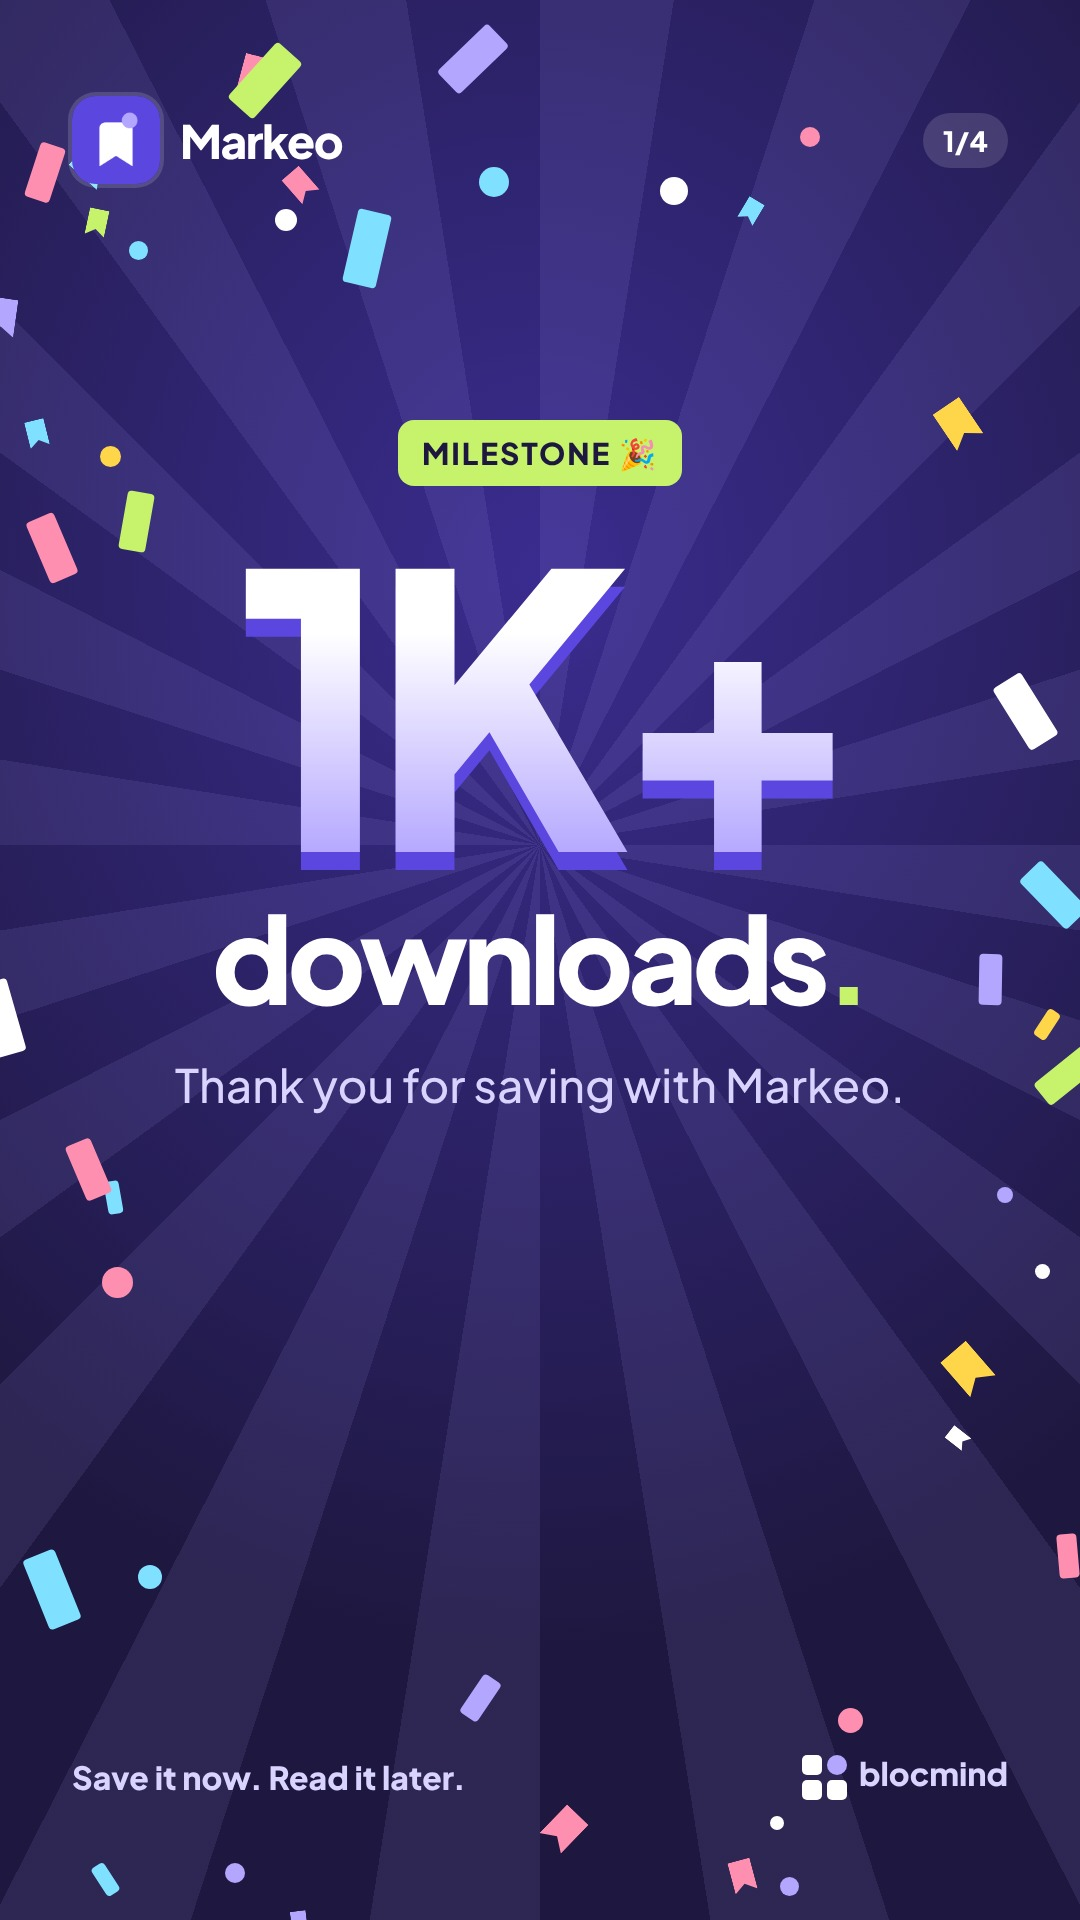
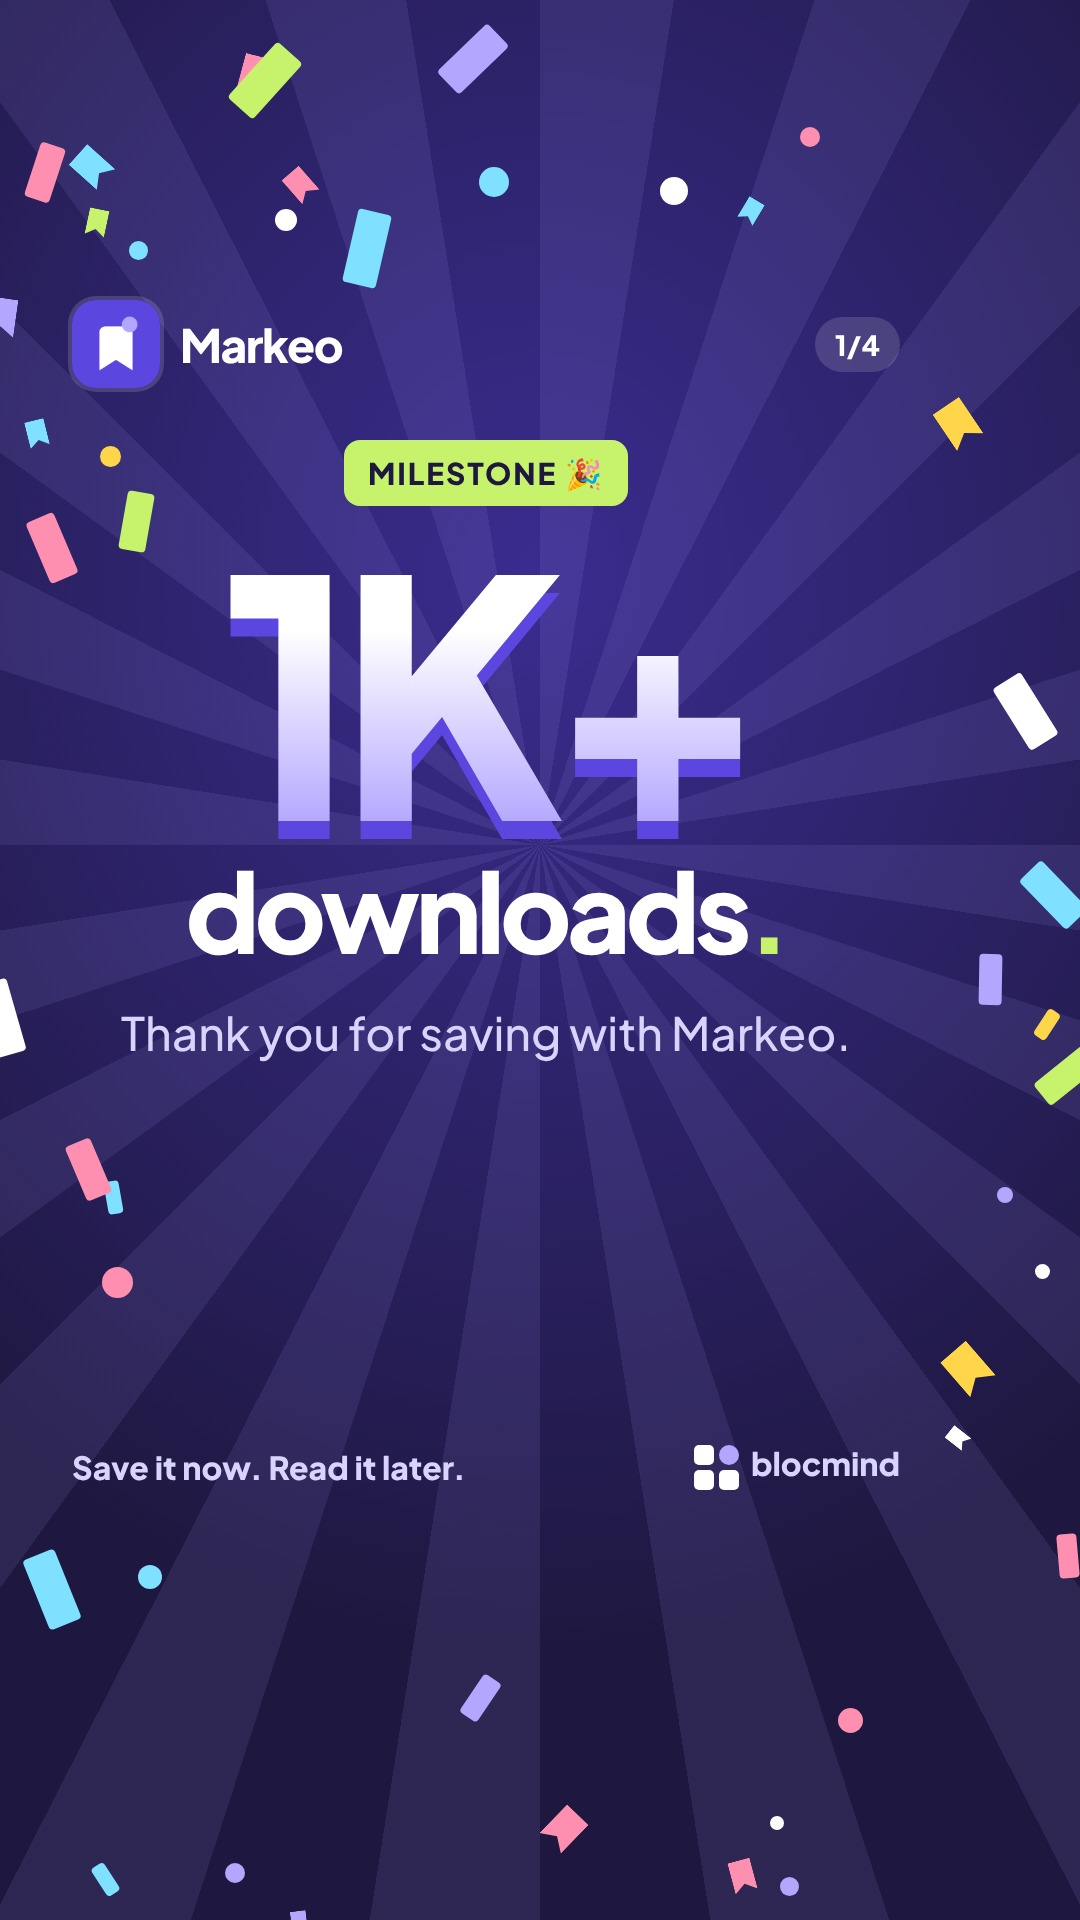
TikTok safe area: renderer padding, playbook rule; Markeo slides re-laid out
Claude-Session: https://claude.ai/code/session_01UYZzVSrbZ6Ze3qHLBoyudE

diff --git a/posts/2026-11-17-markeo/markeo.py b/posts/2026-11-17-markeo/markeo.py
@@ -28,22 +28,22 @@ CSS = f"""
 .s{{position:relative;overflow:hidden;width:1080px;height:1920px;color:#fff;background:radial-gradient(120% 80% at 50% 30%,#3A2C8F 0%,{DEEP} 70%)}}
 .conf{{position:absolute;inset:0;z-index:1}}.conf i{{position:absolute;display:block}}
 .ray{{position:absolute;left:50%;top:44%;width:2800px;height:2800px;margin:-1400px 0 0 -1400px;background:repeating-conic-gradient(rgba(179,166,255,.10) 0 9deg,transparent 9deg 18deg)}}
-.top{{position:absolute;left:72px;right:72px;top:96px;display:flex;align-items:center;gap:20px;z-index:6}}
+.top{{position:absolute;left:72px;right:180px;top:300px;display:flex;align-items:center;gap:20px;z-index:6}}
 .top img{{width:88px;height:88px;border-radius:24px;box-shadow:0 0 0 4px rgba(255,255,255,.15)}}
 .top b{{font-size:46px;font-weight:800;letter-spacing:-1.5px}}
 .n{{margin-left:auto;padding:10px 20px;border-radius:999px;background:rgba(255,255,255,.14);font-weight:800;font-size:28px}}
-.c{{position:absolute;left:72px;right:72px;z-index:5}}
+.c{{position:absolute;left:72px;right:180px;z-index:5}}
 .tag{{display:inline-block;padding:14px 24px;border-radius:16px;background:{LIME};color:{DEEP};font-size:30px;font-weight:800;letter-spacing:2px;text-transform:uppercase}}
 h1{{font-weight:800;letter-spacing:-.045em;line-height:.95}}
 .big{{font-size:380px;font-weight:800;letter-spacing:-.06em;line-height:.85;background:linear-gradient(180deg,#fff 30%,{LILAC});-webkit-background-clip:text;color:transparent;filter:drop-shadow(0 18px 0 {V})}}
 p{{font-size:46px;font-weight:500;line-height:1.35;color:#D9D3FF}}
-.store{{display:flex;align-items:center;gap:22px;padding:26px 34px;border-radius:30px;background:#fff;color:{DEEP};box-shadow:12px 12px 0 {V}}}
+.store{{display:flex;align-items:center;gap:22px;padding:20px 30px;border-radius:30px;background:#fff;color:{DEEP};box-shadow:12px 12px 0 {V}}}
 .store .ic{{width:76px;height:76px;border-radius:20px;display:grid;place-items:center;font-size:44px;background:{DEEP};color:#fff}}
 .store small{{display:block;font-size:26px;font-weight:700;color:#6B6496}}
 .store b{{font-size:48px;font-weight:800;letter-spacing:-1.5px}}
-.feat{{display:flex;align-items:center;gap:24px;padding:26px 30px;border-radius:30px;background:rgba(255,255,255,.08);border:2px solid rgba(255,255,255,.14);font-size:40px;font-weight:700}}
+.feat{{display:flex;align-items:center;gap:22px;padding:22px 26px;border-radius:30px;background:rgba(255,255,255,.08);border:2px solid rgba(255,255,255,.14);font-size:36px;font-weight:700}}
 .feat span{{width:72px;height:72px;flex:none;border-radius:20px;display:grid;place-items:center;font-size:38px;background:{V}}}
-.foot{{position:absolute;left:72px;right:72px;bottom:120px;display:flex;justify-content:space-between;align-items:center;font-size:32px;font-weight:800;z-index:3;color:#D9D3FF}}
+.foot{{position:absolute;left:72px;right:180px;bottom:430px;display:flex;justify-content:space-between;align-items:center;font-size:32px;font-weight:800;z-index:3;color:#D9D3FF}}
 .mark{{display:inline-grid;grid-template-columns:repeat(2,20px);gap:5px;vertical-align:middle;margin-right:12px}}
 .mark i{{display:block;width:20px;height:20px;border-radius:5px;background:#fff}}.mark i.m{{border-radius:50%;background:{LILAC}}}
 """
@@ -56,28 +56,28 @@ STORES = f'''<div style="display:flex;flex-direction:column;gap:26px">
 
 TT = [
 f'''<div class="s"><div class="ray"></div>{confetti(90)}{top('1/4')}
-<div class="c" style="top:420px;text-align:center"><span class="tag">Milestone 🎉</span>
-<div class="big" style="margin-top:50px">1K+</div>
-<h1 style="font-size:120px;margin-top:40px">downloads<span style="color:{LIME}">.</span></h1>
+<div class="c" style="top:440px;text-align:center"><span class="tag">Milestone 🎉</span>
+<div class="big" style="margin-top:40px;font-size:330px">1K+</div>
+<h1 style="font-size:110px;margin-top:30px">downloads<span style="color:{LIME}">.</span></h1>
 <p style="margin-top:40px">Thank you for saving with Markeo.</p></div>{FOOT}</div>''',
 f'''<div class="s">{confetti(30)}{top('2/4')}
-<div class="c" style="top:280px"><h1 style="font-size:118px">Why 1,000+ people keep their links here<span style="color:{LIME}">.</span></h1>
-<div style="display:flex;flex-direction:column;gap:22px;margin-top:70px">
+<div class="c" style="top:420px"><h1 style="font-size:92px">Why 1,000+ people keep their links here<span style="color:{LIME}">.</span></h1>
+<div style="display:flex;flex-direction:column;gap:18px;margin-top:44px">
 <div class="feat"><span>↗</span>Save from any app in one tap</div>
 <div class="feat"><span>⏰</span>Read-later reminders that actually remind</div>
 <div class="feat"><span>🗂</span>Folders and smart collections</div>
 <div class="feat"><span>🔒</span>No account. Links stay on your phone</div>
 </div></div>{FOOT}</div>''',
 f'''<div class="s"><div class="ray"></div>{confetti(60)}{top('3/4')}
-<div class="c" style="top:320px"><span class="tag">New</span>
-<h1 style="font-size:150px;margin-top:40px">Now on iPhone too<span style="color:{LIME}">.</span></h1>
-<p style="margin-top:40px;max-width:880px">Markeo is live on the App Store. Same calm app, now on both platforms.</p></div>
-<div class="c" style="top:1180px">{STORES}</div>{FOOT}</div>''',
+<div class="c" style="top:420px"><span class="tag">New</span>
+<h1 style="font-size:128px;margin-top:30px">Now on iPhone too<span style="color:{LIME}">.</span></h1>
+<p style="margin-top:30px;font-size:40px">Markeo is live on the App Store. Same calm app, now on both platforms.</p></div>
+<div class="c" style="top:1130px">{STORES}</div>{FOOT}</div>''',
 f'''<div class="s"><div class="ray"></div>{confetti(70)}{top('4/4')}
-<div class="c" style="top:360px;text-align:center"><img src="{ICON}" style="width:240px;height:240px;border-radius:60px;box-shadow:0 0 0 10px rgba(255,255,255,.12),20px 20px 0 {V}">
-<h1 style="font-size:128px;margin-top:70px">Get Markeo<span style="color:{LIME}">.</span></h1>
+<div class="c" style="top:430px;text-align:center"><img src="{ICON}" style="width:200px;height:200px;border-radius:60px;box-shadow:0 0 0 10px rgba(255,255,255,.12),20px 20px 0 {V}">
+<h1 style="font-size:116px;margin-top:50px">Get Markeo<span style="color:{LIME}">.</span></h1>
 <p style="margin-top:30px">Search “Markeo” on the App Store or Google Play.</p></div>
-<div class="c" style="top:1200px">{STORES}</div>{FOOT}</div>''',
+<div class="c" style="top:1130px">{STORES}</div>{FOOT}</div>''',
 ]
 
 FB = f'''<div class="s" style="height:1350px"><div class="ray" style="top:40%"></div>{confetti(70,1080,1350)}

diff --git a/scripts/render.py b/scripts/render.py
@@ -39,8 +39,8 @@ def fill(app, f, slide, n=""):
     vals = dict(
         t, app=app,
         w=1080, h=1920 if tall else 1350,
-        pad="120px 84px 150px" if tall else "84px 84px 80px",
-        big=(104 if len(h) > 48 else 124) if tall else (88 if len(h) > 48 else 104),
+        pad="300px 180px 420px 84px" if tall else "84px 84px 80px",  # TikTok safe area: top 300 (status + search bar), bottom 420 (caption, dots), right 180 (action buttons)
+        big=(92 if len(h) > 48 else 112) if tall else (88 if len(h) > 48 else 104),
         subSize=46 if tall else 40,
         headline=html.escape(body), stop=html.escape(stop),
         eyebrowChip=f'<span class="eyebrow">{html.escape(slide["eyebrow"])}</span>' if slide.get("eyebrow") else "",

diff --git a/playbook.md b/playbook.md
@@ -33,6 +33,14 @@ Never tie a post to tragedies, disasters, deaths, accidents, wars, terrorism, cr
 - Always `#blocmind` plus the app tag (`#fairloop #spencio #reap #markeo #axilo`).
 - Save both captions in `posts/<date>/captions.md`.
 
+## TikTok safe area (1080×1920)
+TikTok draws its own UI over photo posts. Keep ALL text, logos, buttons and key art inside the safe area, or it gets covered:
+- **Top 300px:** status bar and the "Find related content" search bar. Background only.
+- **Bottom 420px:** caption, username, carousel dots and comment box. Background only.
+- **Right 180px:** like / comment / save / share buttons (from mid-slide down). Background only.
+- Safe box: x 84–900, y 300–1500. `scripts/render.py` already pads to this; hand-made slides must follow it too. Facebook cards (1080×1350) have no overlay.
+- Check before publishing: look at every TikTok slide and confirm nothing important sits outside the safe box.
+
 ## Failure handling
 - Facebook photo post fails → retry once → post text + app link instead.
 - TikTok not connected or fails twice → skip TikTok today.
